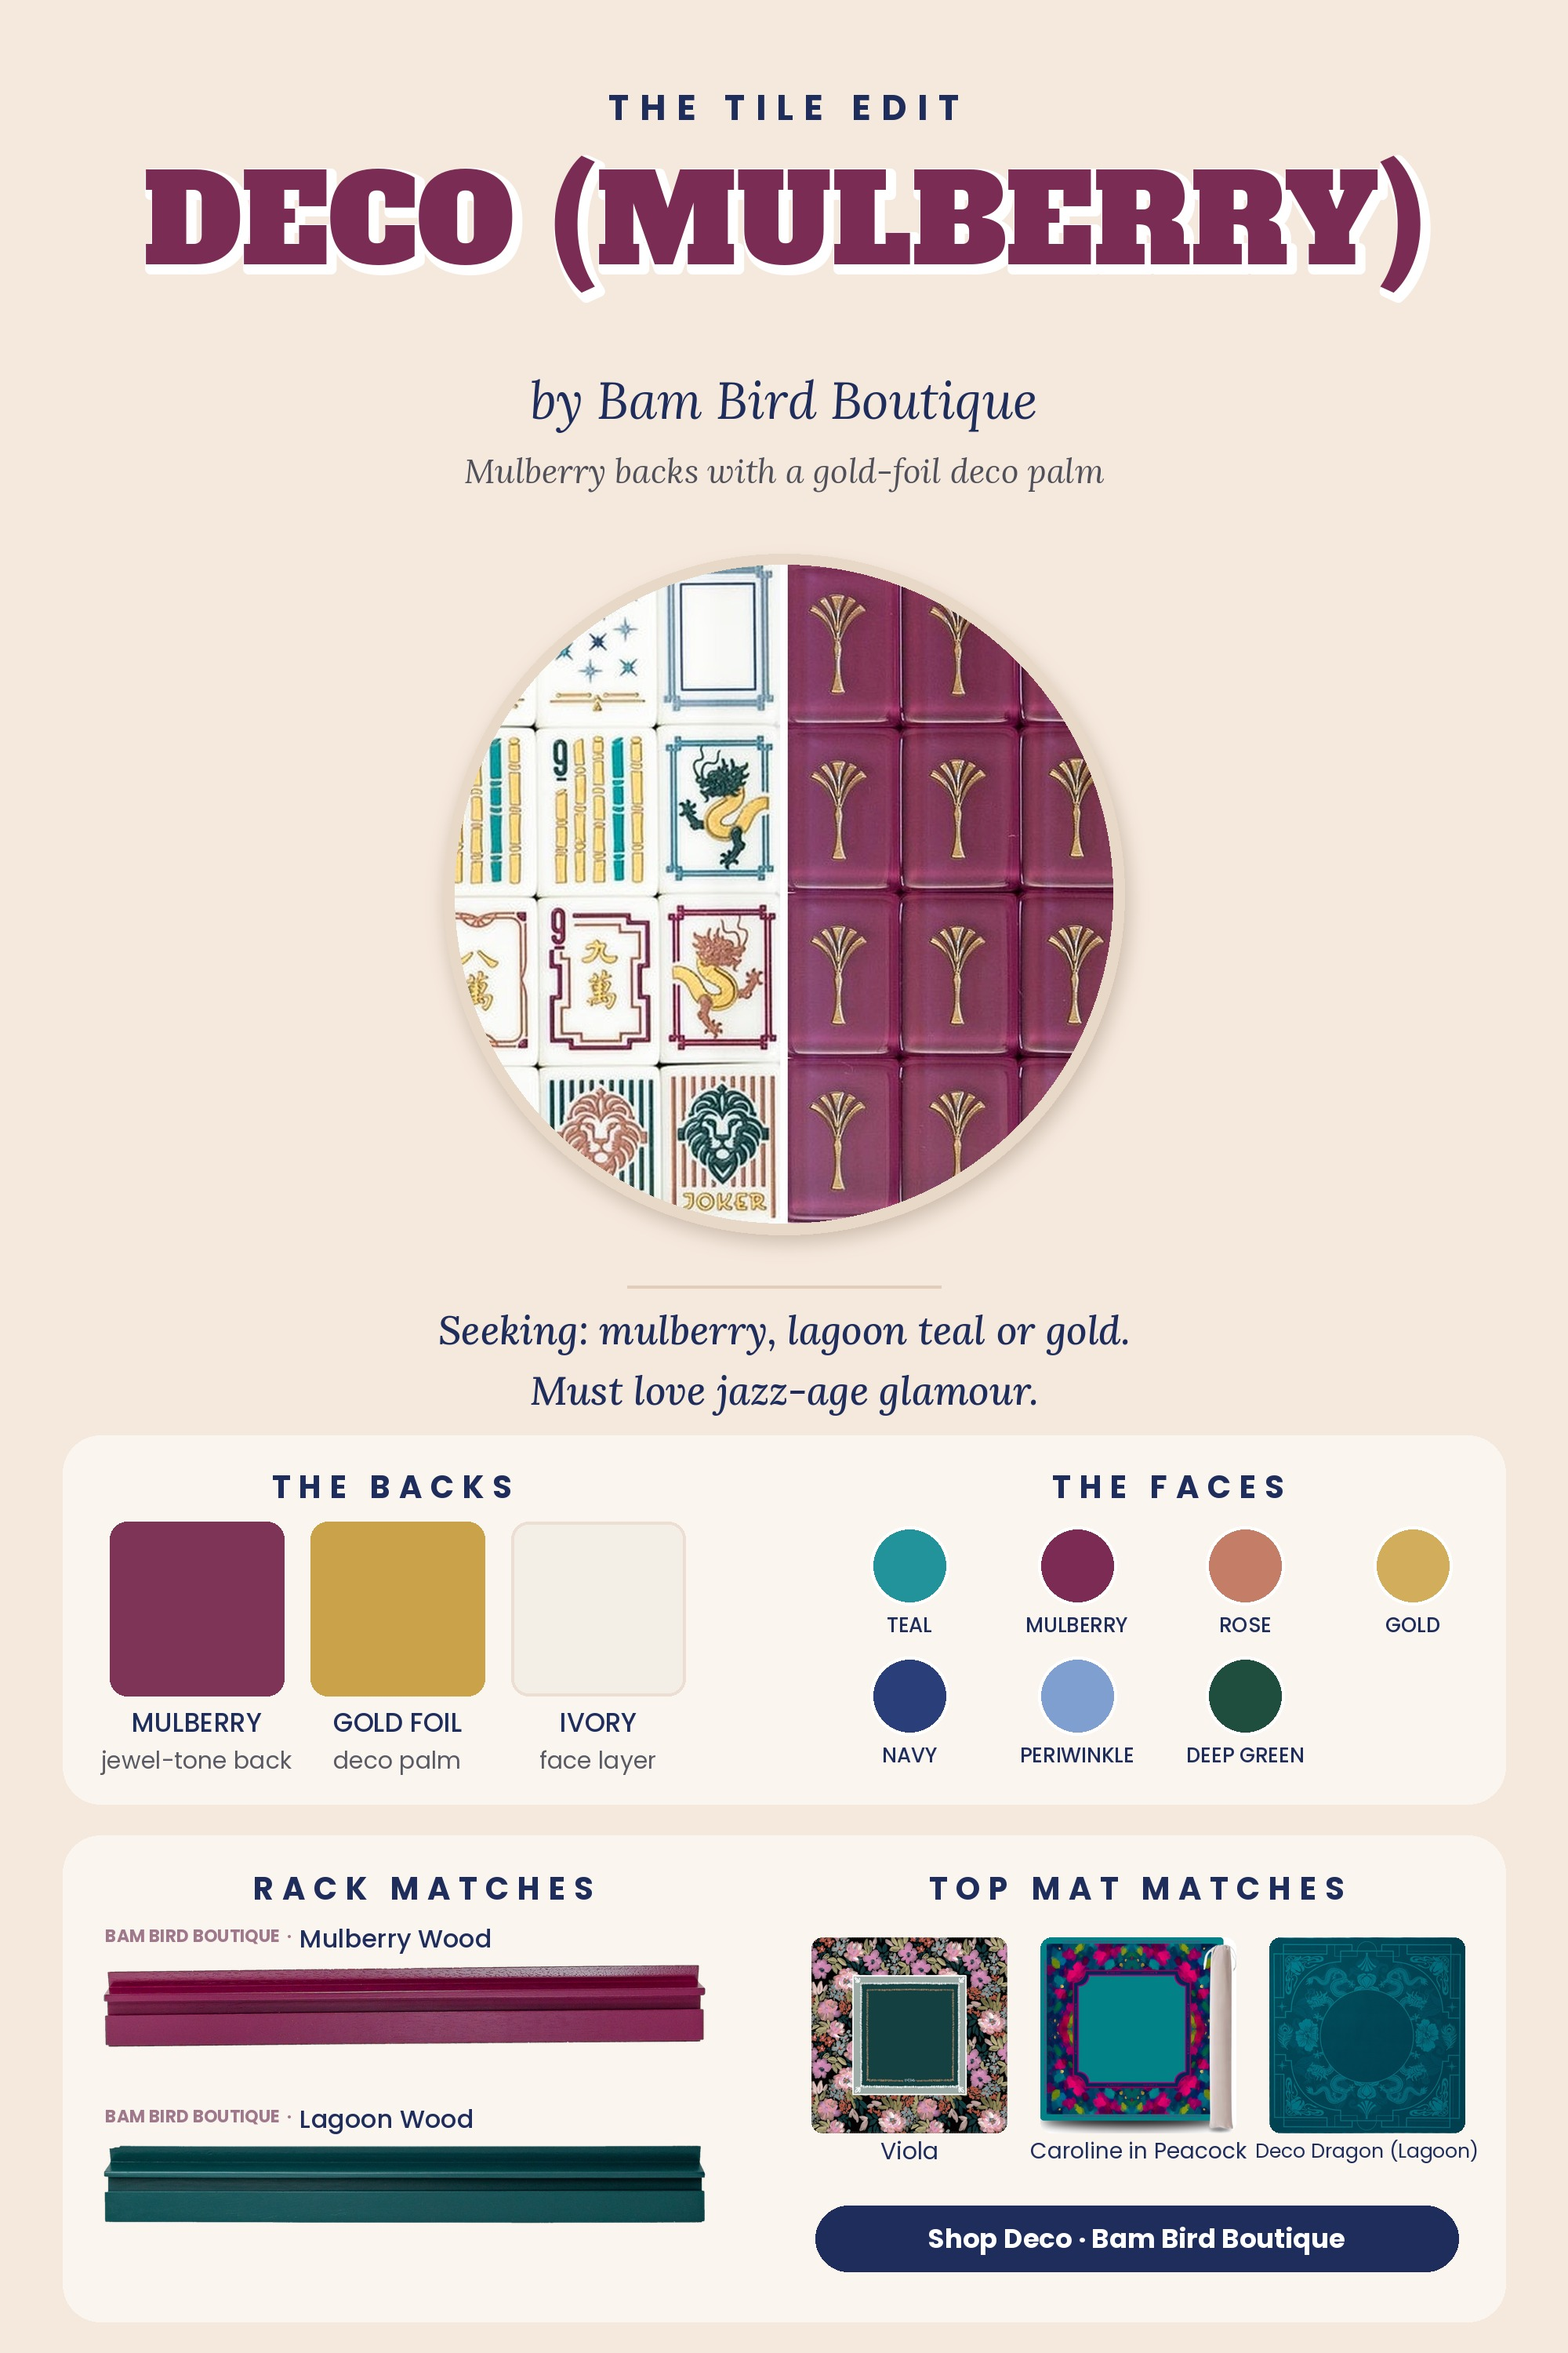
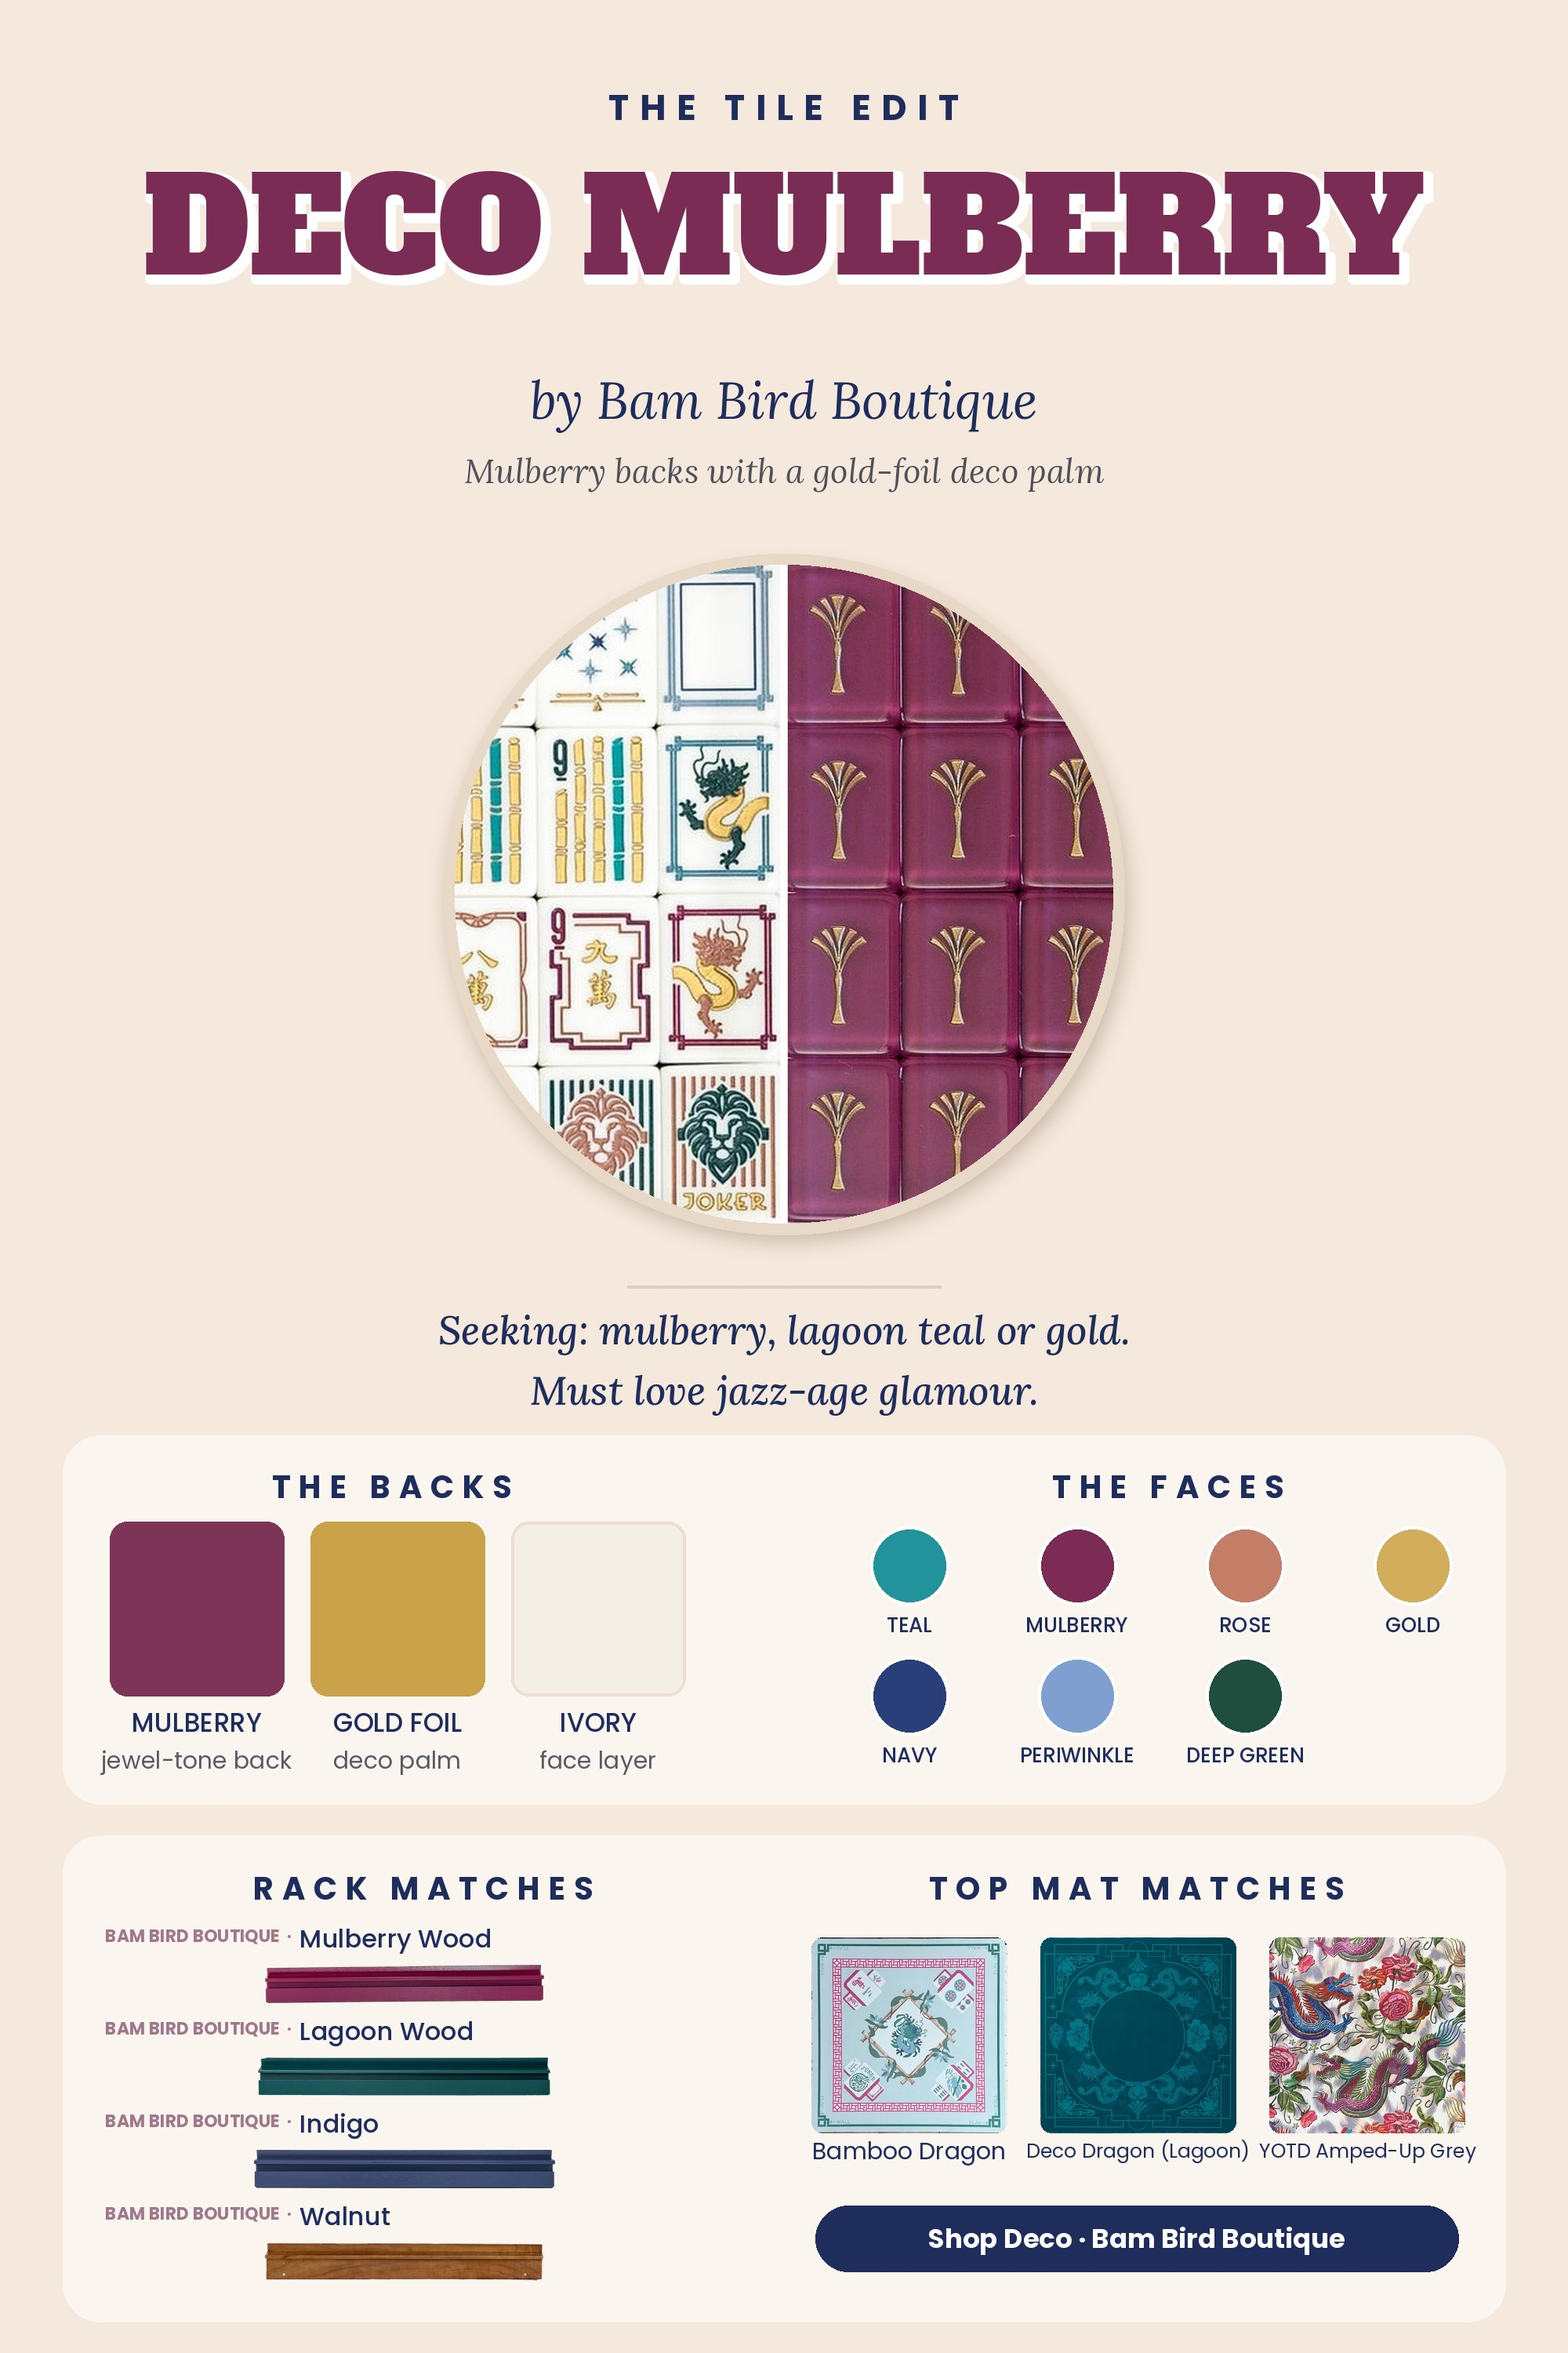
Mulberry tile edit: 4 Bam Bird racks + her overall top 3
Claude-Session: https://claude.ai/code/session_01UWZfuwFYQL37EbBDGV2NZF

Changed region(s): [[0.496, 0.806, 0.961, 0.93], [0.093, 0.062, 0.93, 0.124], [0.062, 0.837, 0.465, 0.992]]

diff --git a/docs/ANSWERS.md b/docs/ANSWERS.md
@@ -1842,3 +1842,4 @@ Tiffany: tabletop room images look AI, don't want them. Use the clean flat/aeria
 - 2026-11-25 8:52pm (Tiffany, chat): "Yes, the code does stack." MAHJMATCH stacks on Bam Bird Boutique Black Friday (free shipping over $300 + 10%). Applies to Deco Lagoon, Indigo and Mulberry captions.
 - 2026-11-26 03:18-03:19 Tiffany (chat): FINAL dating-profile text + IG captions + reel music for Deco Mulberry / Indigo / Lagoon (config/profiles/deco-text/*.json; captions kept verbatim in this chat). Rack rules same hour (3:01-3:17am, ALL three albums): Dijon -> B&B Gold Metallic everywhere; Gilded Peacock + Crane Cloud + Marquee = Cream + Gold Metallic; Gold Fans = Bam Bird Lagoon Wood + Walnut on every album; East Meets West Magenta = Bam Bird Dusty Lilac Wood + Gold Metallic; Deco Dragon Lagoon mat racks = Bam Bird Indigo + Teal; YOTD Amped-Up Grey = Silver + Champagne Metallic; titles 'YOTD Amped-Up Grey/Pink'. Image-problem cards outside any top 3 may be set aside (listed to her).
 - 2026-11-26 03:44 Tiffany: Indigo IG caption (triple date, restock today 10am CST) = assets/social/deco-indigo-launch/caption-ig.txt verbatim. PRIORITY: Indigo social complete first (one post promoting Indigo + nod to Lagoon/Mulberry albums), then Mulberry, then Lagoon social. She has little time in the morning.
+- 2026-11-26 09:12 Tiffany: Deco Mulberry OVERALL top 3 = Bamboo Dragon, Deco Dragon (Lagoon), YOTD Amped-Up Grey (page splits Bam Bird / other brands, but social + colour card use the overall order). Indigo overall top 3 = Art Deco Gold Fans, Deco Dragon (Mulberry), Trent Midnight. Tile edit cards: 4 Bam Bird racks on all three.
